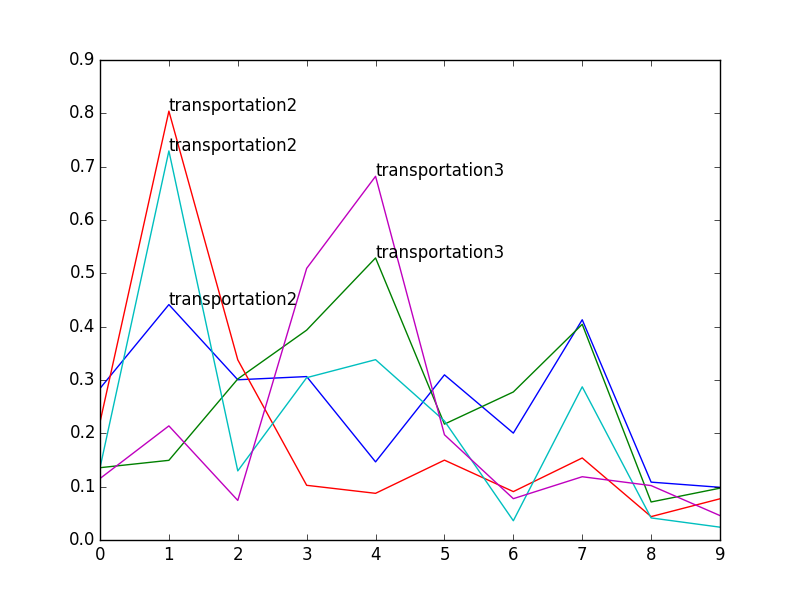
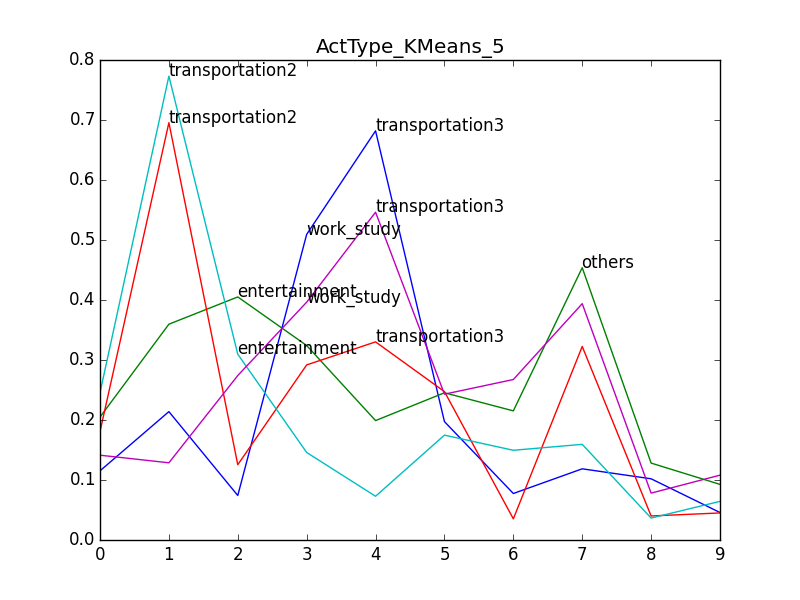
Kmeans label

diff --git a/clusteringKmeansLabels.py b/clusteringKmeansLabels.py
@@ -35,7 +35,7 @@ def KM(domain, metric):
 			X = utilise.ActTypeTfidfArray()
 	X = utilise.normArray(X)
 	
-	range_n_clusters = [4]
+	range_n_clusters = [5]
 	for n_clusters in range_n_clusters:
 		# fw = open('labels_KMeans_'+domain+'_'+str(n_clusters)+'.txt','w')
 		reduced_data = PCA(n_components=2).fit_transform(X)
@@ -68,13 +68,35 @@ def KM(domain, metric):
 				sumVec += x 
 			meanVec = sumVec/i 
 			meanVec.tolist()
-			print np.max(meanVec)
-			x = range(X.shape[1])
 			
-			plt.plot(x,meanVec[0])
+			firstMax = np.max(meanVec[0])
+			print firstMax
+			tempVec = np.copy(meanVec)
 			for j in range(X.shape[1]):
-				if meanVec[0,j] == np.max(meanVec):
+				if tempVec[0,j] == firstMax:
+					tempVec[0,j] = 0
+			secondMax = np.max(tempVec[0])
+			print secondMax
+			tempVec2 = np.copy(tempVec)
+			for j in range(X.shape[1]):
+				if tempVec2[0,j]==secondMax:
+					tempVec2[0,j] = 0
+			thirdMax = np.max(tempVec2[0])
+			print thirdMax
+
+			
+			x = range(X.shape[1])
+			plt.title(domain+'_KMeans_'+str(n_clusters))
+			plt.plot(x,meanVec[0])
+			print meanVec[0]
+			for j in range(X.shape[1]):
+				# if meanVec[0,j] == firstMax:
+				if meanVec[0,j] == firstMax or meanVec[0,j] == secondMax:
+				# if meanVec[0,j] == firstMax or meanVec[0,j] == secondMax or meanVec[0,j] == thirdMax:
+					print row_labels[j]
+					print meanVec[0,j]
 					plt.text(x[j],meanVec[0,j],row_labels[j])
+
 		# print row_labels
 		#plt.xlabel(row_labels)
 		plt.savefig('VisClustering'+domain+'Pattern/KMeans_'+metric+'_'+str(n_clusters)+'_groupFreq')
@@ -83,4 +105,4 @@ for domain in Domain:
 	for metric in Metric:
 		KM(domain, metric)
 
-# KM('ActItem', 'TFIDF')
+KM('ActItem', 'TFIDF')
